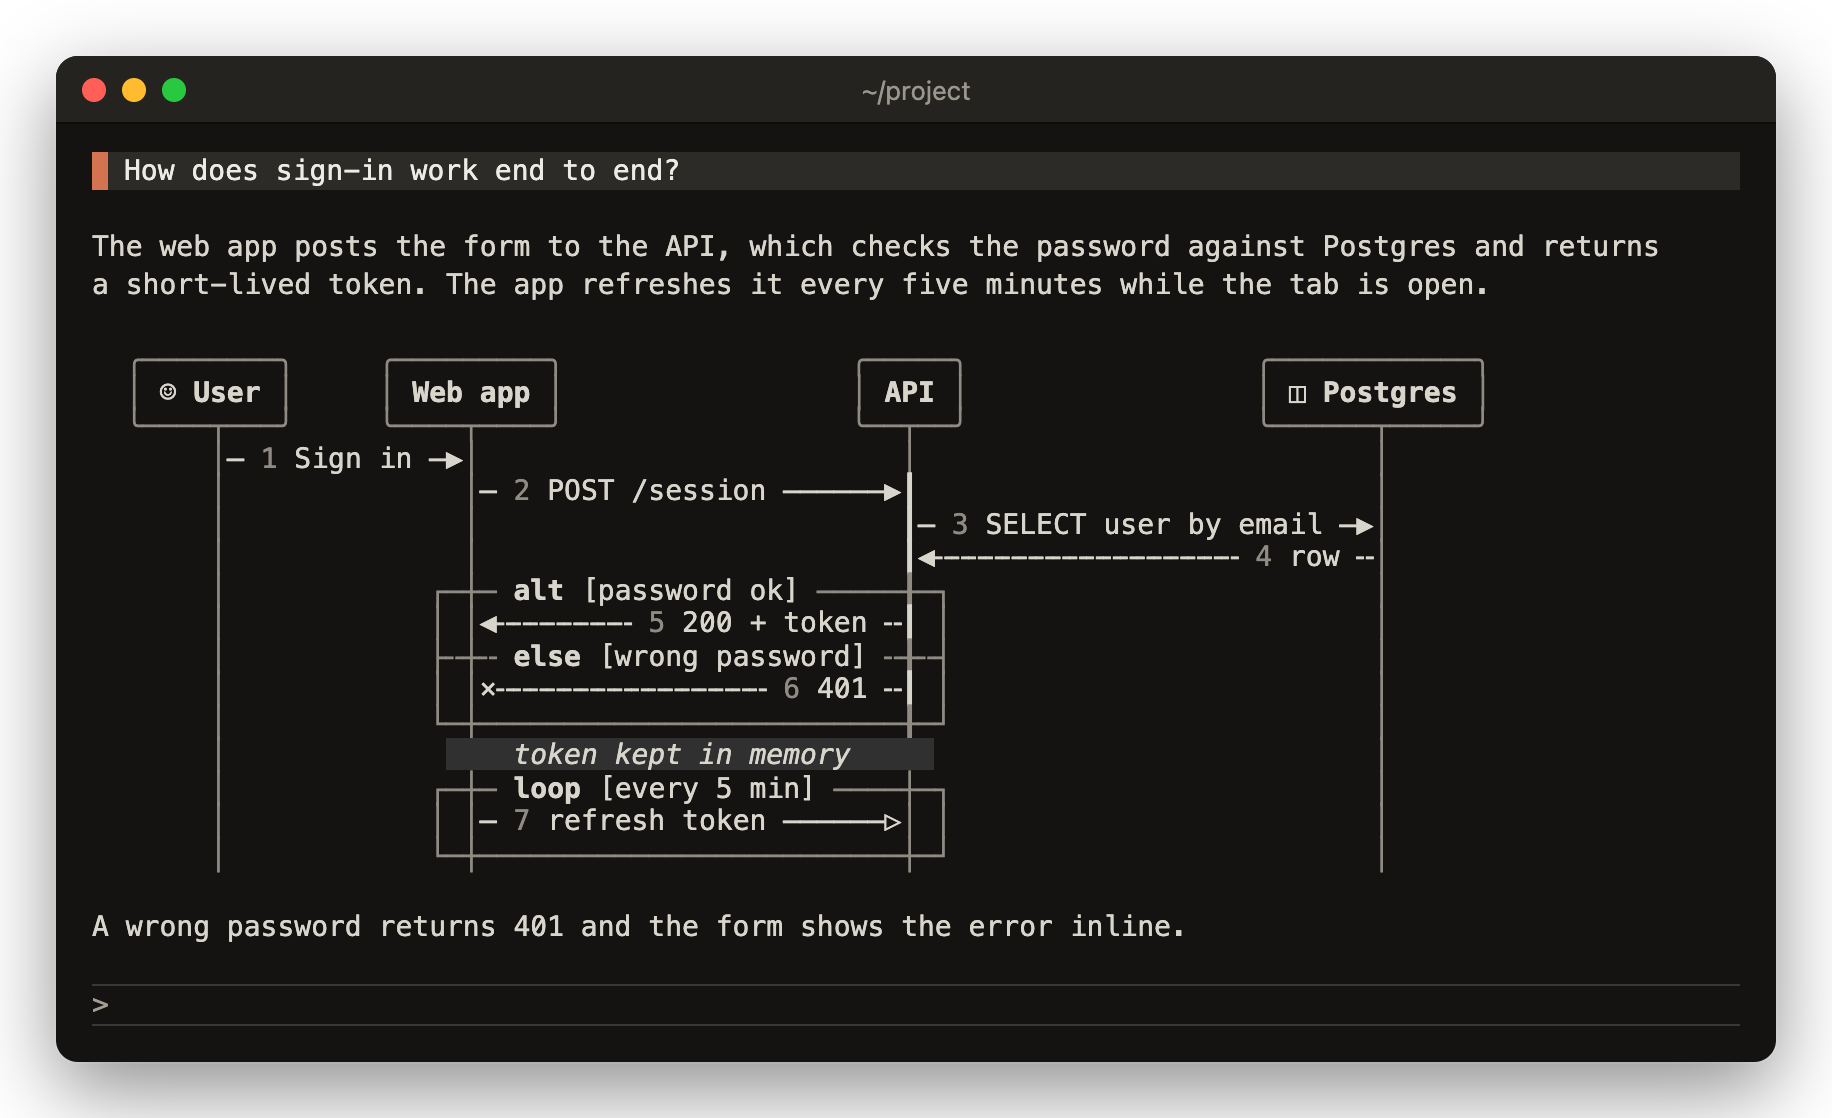
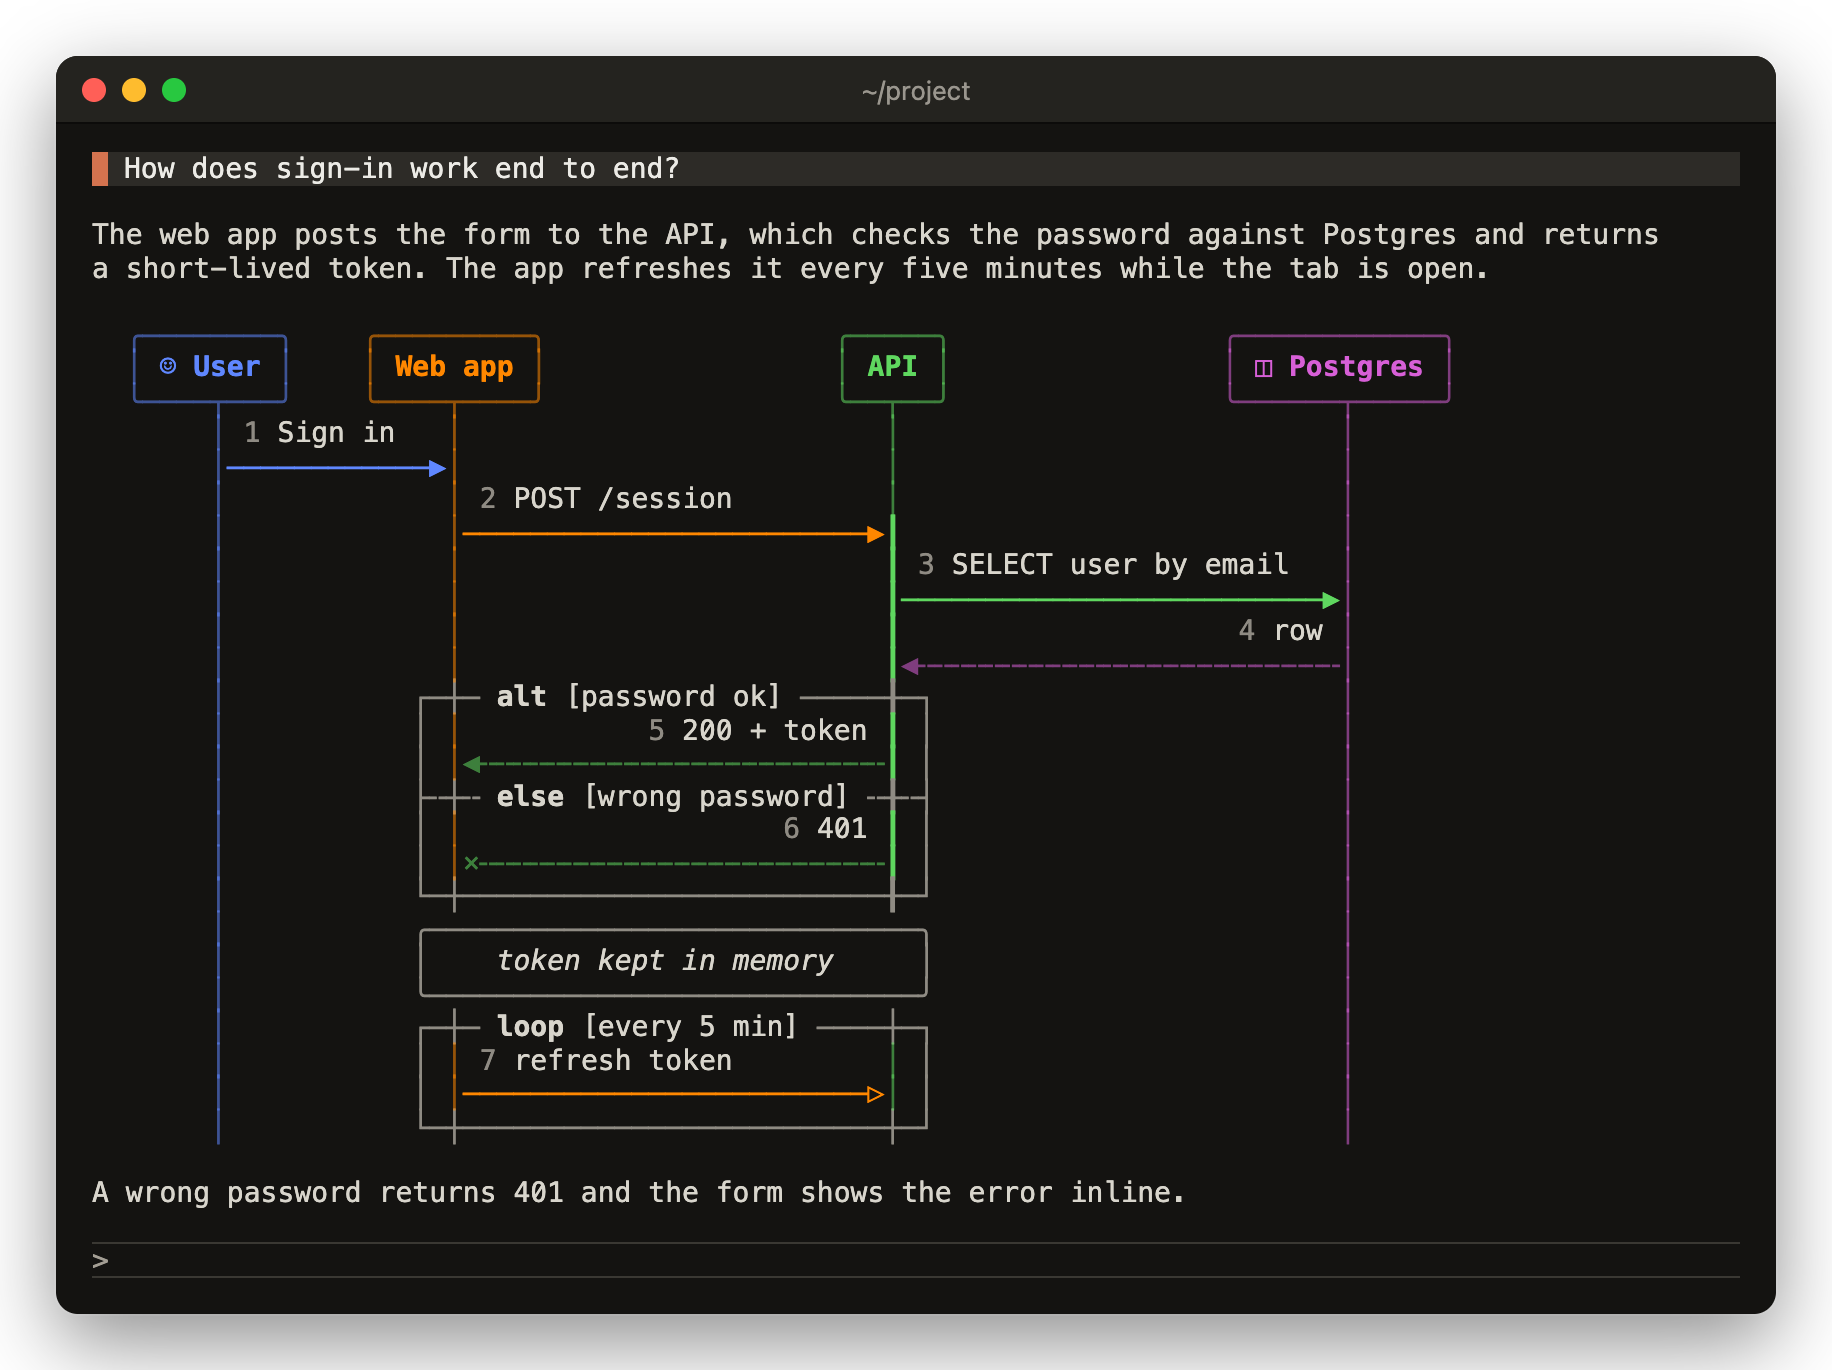
[Doc] Redraw the mermaid screen with sender colours, boxed notes and labels above arrows

Changed region(s): [[0.0311, 0.0304, 0.9645, 0.8819], [0.0311, 0.9123, 0.9645, 0.9732]]

diff --git a/docs/screens/src/mermaid.html b/docs/screens/src/mermaid.html
@@ -3,9 +3,11 @@
 <style>
 .i-frame, .i-block, .i-number { color: #8f8b83; }
 .i-name { font-weight: bold; }
-.i-note { font-style: italic; background: #303030; }
+.i-note { font-style: italic; }
+.dim { opacity: 0.55; }
 .shade { background: #262626; }
-.dg { line-height: 16.5px; min-height: 16.5px; }
+.term, .l, .body { line-height: 16.5px; min-height: 16.5px; }
+.gap { height: 16.5px; }
 </style></head>
 <body>
 <div class="win">
@@ -16,22 +18,31 @@
 <div class="l">The web app posts the form to the API, which checks the password against Postgres and returns</div>
 <div class="l">a short-lived token. The app refreshes it every five minutes while the tab is open.</div>
 <div class="gap"></div>
-<div class="l dg">  <span class="i-frame">╭────────╮     ╭─────────╮                 ╭─────╮                 ╭────────────╮</span></div>
-<div class="l dg">  <span class="i-frame">│ </span><span class="i-name">☺ User </span><span class="i-frame">│     │ </span><span class="i-name">Web app </span><span class="i-frame">│                 │ </span><span class="i-name">API </span><span class="i-frame">│                 │ </span><span class="i-name">◫ Postgres </span><span class="i-frame">│</span></div>
-<div class="l dg">  <span class="i-frame">╰────┬───╯     ╰────┬────╯                 ╰──┬──╯                 ╰──────┬─────╯</span></div>
-<div class="l dg">  <span class="i-text">     </span><span class="i-frame">│</span><span class="i-line">─ </span><span class="i-number">1 </span><span class="i-text">Sign in </span><span class="i-line">─▶</span><span class="i-frame">│                         │                           │</span></div>
-<div class="l dg">  <span class="i-text">     </span><span class="i-frame">│              │</span><span class="i-line">─ </span><span class="i-number">2 </span><span class="i-text">POST /session </span><span class="i-line">──────▶┃                           </span><span class="i-frame">│</span></div>
-<div class="l dg">  <span class="i-text">     </span><span class="i-frame">│              │                         </span><span class="i-line">┃─ </span><span class="i-number">3 </span><span class="i-text">SELECT user by email </span><span class="i-line">─▶</span><span class="i-frame">│</span></div>
-<div class="l dg">  <span class="i-text">     </span><span class="i-frame">│              │                         </span><span class="i-line">┃◀╌╌╌╌╌╌╌╌╌╌╌╌╌╌╌╌╌╌ </span><span class="i-number">4 </span><span class="i-text">row </span><span class="i-line">╌</span><span class="i-frame">│</span></div>
-<div class="l dg">  <span class="i-text">     </span><span class="i-frame">│            </span><span class="i-block">┌─┼─ </span><span class="i-name">alt </span><span class="i-text">[password ok] </span><span class="i-block">─────╂─┐                         </span><span class="i-frame">│</span></div>
-<div class="l dg">  <span class="i-text">     </span><span class="i-frame">│            </span><span class="i-block">│ </span><span class="i-frame">│</span><span class="i-line">◀╌╌╌╌╌╌╌╌ </span><span class="i-number">5 </span><span class="i-text">200 + token </span><span class="i-line">╌┃ </span><span class="i-block">│                         </span><span class="i-frame">│</span></div>
-<div class="l dg">  <span class="i-text">     </span><span class="i-frame">│            </span><span class="i-block">├╌┼╌ </span><span class="i-name">else </span><span class="i-text">[wrong password] </span><span class="i-block">╌╂╌┤                         </span><span class="i-frame">│</span></div>
-<div class="l dg">  <span class="i-text">     </span><span class="i-frame">│            </span><span class="i-block">│ </span><span class="i-frame">│</span><span class="i-line">×╌╌╌╌╌╌╌╌╌╌╌╌╌╌╌╌ </span><span class="i-number">6 </span><span class="i-text">401 </span><span class="i-line">╌┃ </span><span class="i-block">│                         </span><span class="i-frame">│</span></div>
-<div class="l dg">  <span class="i-text">     </span><span class="i-frame">│            </span><span class="i-block">└─┼─────────────────────────╂─┘                         </span><span class="i-frame">│</span></div>
-<div class="l dg">  <span class="i-text">     </span><span class="i-frame">│             </span><span class="i-note">    token kept in memory     </span><span class="i-text">                          </span><span class="i-frame">│</span></div>
-<div class="l dg">  <span class="i-text">     </span><span class="i-frame">│            </span><span class="i-block">┌─┼─ </span><span class="i-name">loop </span><span class="i-text">[every 5 min] </span><span class="i-block">────┼─┐                         </span><span class="i-frame">│</span></div>
-<div class="l dg">  <span class="i-text">     </span><span class="i-frame">│            </span><span class="i-block">│ </span><span class="i-frame">│</span><span class="i-line">─ </span><span class="i-number">7 </span><span class="i-text">refresh token </span><span class="i-line">──────▷</span><span class="i-frame">│ </span><span class="i-block">│                         </span><span class="i-frame">│</span></div>
-<div class="l dg">  <span class="i-text">     </span><span class="i-frame">│            </span><span class="i-block">└─┼─────────────────────────┼─┘                         </span><span class="i-frame">│</span></div>
+<div class="l dg">  <span class="i-frame dim" style="color:#5f87ff">╭────────╮    </span><span class="i-frame dim" style="color:#ff8700">╭─────────╮                 </span><span class="i-frame dim" style="color:#5fd75f">╭─────╮                </span><span class="i-frame dim" style="color:#d75fd7">╭────────────╮</span></div>
+<div class="l dg">  <span class="i-frame dim" style="color:#5f87ff">│ </span><span class="i-name" style="color:#5f87ff">☺ User </span><span class="i-frame dim" style="color:#5f87ff">│    </span><span class="i-frame dim" style="color:#ff8700">│ </span><span class="i-name" style="color:#ff8700">Web app </span><span class="i-frame dim" style="color:#ff8700">│                 </span><span class="i-frame dim" style="color:#5fd75f">│ </span><span class="i-name" style="color:#5fd75f">API </span><span class="i-frame dim" style="color:#5fd75f">│                </span><span class="i-frame dim" style="color:#d75fd7">│ </span><span class="i-name" style="color:#d75fd7">◫ Postgres </span><span class="i-frame dim" style="color:#d75fd7">│</span></div>
+<div class="l dg">  <span class="i-frame dim" style="color:#5f87ff">╰────┬───╯    </span><span class="i-frame dim" style="color:#ff8700">╰────┬────╯                 </span><span class="i-frame dim" style="color:#5fd75f">╰──┬──╯                </span><span class="i-frame dim" style="color:#d75fd7">╰──────┬─────╯</span></div>
+<div class="l dg">  <span class="i-text">     </span><span class="i-frame dim" style="color:#5f87ff">│ </span><span class="i-number">1 </span><span class="i-text">Sign in   </span><span class="i-frame dim" style="color:#ff8700">│                         </span><span class="i-frame dim" style="color:#5fd75f">│                          </span><span class="i-frame dim" style="color:#d75fd7">│</span></div>
+<div class="l dg">  <span class="i-text">     </span><span class="i-frame dim" style="color:#5f87ff">│</span><span class="i-line" style="color:#5f87ff">────────────▶</span><span class="i-frame dim" style="color:#ff8700">│                         </span><span class="i-frame dim" style="color:#5fd75f">│                          </span><span class="i-frame dim" style="color:#d75fd7">│</span></div>
+<div class="l dg">  <span class="i-text">     </span><span class="i-frame dim" style="color:#5f87ff">│             </span><span class="i-frame dim" style="color:#ff8700">│ </span><span class="i-number">2 </span><span class="i-text">POST /session         </span><span class="i-frame dim" style="color:#5fd75f">│                          </span><span class="i-frame dim" style="color:#d75fd7">│</span></div>
+<div class="l dg">  <span class="i-text">     </span><span class="i-frame dim" style="color:#5f87ff">│             </span><span class="i-frame dim" style="color:#ff8700">│</span><span class="i-line" style="color:#ff8700">────────────────────────▶</span><span class="i-line" style="color:#5fd75f">┃                          </span><span class="i-frame dim" style="color:#d75fd7">│</span></div>
+<div class="l dg">  <span class="i-text">     </span><span class="i-frame dim" style="color:#5f87ff">│             </span><span class="i-frame dim" style="color:#ff8700">│                         </span><span class="i-line" style="color:#5fd75f">┃ </span><span class="i-number">3 </span><span class="i-text">SELECT user by email   </span><span class="i-frame dim" style="color:#d75fd7">│</span></div>
+<div class="l dg">  <span class="i-text">     </span><span class="i-frame dim" style="color:#5f87ff">│             </span><span class="i-frame dim" style="color:#ff8700">│                         </span><span class="i-line" style="color:#5fd75f">┃─────────────────────────▶</span><span class="i-frame dim" style="color:#d75fd7">│</span></div>
+<div class="l dg">  <span class="i-text">     </span><span class="i-frame dim" style="color:#5f87ff">│             </span><span class="i-frame dim" style="color:#ff8700">│                         </span><span class="i-line" style="color:#5fd75f">┃                    </span><span class="i-number">4 </span><span class="i-text">row </span><span class="i-frame dim" style="color:#d75fd7">│</span></div>
+<div class="l dg">  <span class="i-text">     </span><span class="i-frame dim" style="color:#5f87ff">│             </span><span class="i-frame dim" style="color:#ff8700">│                         </span><span class="i-line" style="color:#5fd75f">┃</span><span class="i-line dim" style="color:#d75fd7">◀╌╌╌╌╌╌╌╌╌╌╌╌╌╌╌╌╌╌╌╌╌╌╌╌╌</span><span class="i-frame dim" style="color:#d75fd7">│</span></div>
+<div class="l dg">  <span class="i-text">     </span><span class="i-frame dim" style="color:#5f87ff">│           </span><span class="i-block">┌─┼─ </span><span class="i-name">alt </span><span class="i-text">[password ok] </span><span class="i-block">─────╂─┐                        </span><span class="i-frame dim" style="color:#d75fd7">│</span></div>
+<div class="l dg">  <span class="i-text">     </span><span class="i-frame dim" style="color:#5f87ff">│           </span><span class="i-block">│ </span><span class="i-frame dim" style="color:#ff8700">│           </span><span class="i-number">5 </span><span class="i-text">200 + token </span><span class="i-line" style="color:#5fd75f">┃ </span><span class="i-block">│                        </span><span class="i-frame dim" style="color:#d75fd7">│</span></div>
+<div class="l dg">  <span class="i-text">     </span><span class="i-frame dim" style="color:#5f87ff">│           </span><span class="i-block">│ </span><span class="i-frame dim" style="color:#ff8700">│</span><span class="i-line dim" style="color:#5fd75f">◀╌╌╌╌╌╌╌╌╌╌╌╌╌╌╌╌╌╌╌╌╌╌╌╌</span><span class="i-line" style="color:#5fd75f">┃ </span><span class="i-block">│                        </span><span class="i-frame dim" style="color:#d75fd7">│</span></div>
+<div class="l dg">  <span class="i-text">     </span><span class="i-frame dim" style="color:#5f87ff">│           </span><span class="i-block">├╌┼╌ </span><span class="i-name">else </span><span class="i-text">[wrong password] </span><span class="i-block">╌╂╌┤                        </span><span class="i-frame dim" style="color:#d75fd7">│</span></div>
+<div class="l dg">  <span class="i-text">     </span><span class="i-frame dim" style="color:#5f87ff">│           </span><span class="i-block">│ </span><span class="i-frame dim" style="color:#ff8700">│                   </span><span class="i-number">6 </span><span class="i-text">401 </span><span class="i-line" style="color:#5fd75f">┃ </span><span class="i-block">│                        </span><span class="i-frame dim" style="color:#d75fd7">│</span></div>
+<div class="l dg">  <span class="i-text">     </span><span class="i-frame dim" style="color:#5f87ff">│           </span><span class="i-block">│ </span><span class="i-frame dim" style="color:#ff8700">│</span><span class="i-line dim" style="color:#5fd75f">×╌╌╌╌╌╌╌╌╌╌╌╌╌╌╌╌╌╌╌╌╌╌╌╌</span><span class="i-line" style="color:#5fd75f">┃ </span><span class="i-block">│                        </span><span class="i-frame dim" style="color:#d75fd7">│</span></div>
+<div class="l dg">  <span class="i-text">     </span><span class="i-frame dim" style="color:#5f87ff">│           </span><span class="i-block">└─┼─────────────────────────╂─┘                        </span><span class="i-frame dim" style="color:#d75fd7">│</span></div>
+<div class="l dg">  <span class="i-text">     </span><span class="i-frame dim" style="color:#5f87ff">│           </span><span class="i-frame">╭─────────────────────────────╮                        </span><span class="i-frame dim" style="color:#d75fd7">│</span></div>
+<div class="l dg">  <span class="i-text">     </span><span class="i-frame dim" style="color:#5f87ff">│           </span><span class="i-frame">│    </span><span class="i-note">token kept in memory</span><span class="i-text">     </span><span class="i-frame">│                        </span><span class="i-frame dim" style="color:#d75fd7">│</span></div>
+<div class="l dg">  <span class="i-text">     </span><span class="i-frame dim" style="color:#5f87ff">│           </span><span class="i-frame">╰─────────────────────────────╯                        </span><span class="i-frame dim" style="color:#d75fd7">│</span></div>
+<div class="l dg">  <span class="i-text">     </span><span class="i-frame dim" style="color:#5f87ff">│           </span><span class="i-block">┌─┼─ </span><span class="i-name">loop </span><span class="i-text">[every 5 min] </span><span class="i-block">────┼─┐                        </span><span class="i-frame dim" style="color:#d75fd7">│</span></div>
+<div class="l dg">  <span class="i-text">     </span><span class="i-frame dim" style="color:#5f87ff">│           </span><span class="i-block">│ </span><span class="i-frame dim" style="color:#ff8700">│ </span><span class="i-number">7 </span><span class="i-text">refresh token         </span><span class="i-frame dim" style="color:#5fd75f">│ </span><span class="i-block">│                        </span><span class="i-frame dim" style="color:#d75fd7">│</span></div>
+<div class="l dg">  <span class="i-text">     </span><span class="i-frame dim" style="color:#5f87ff">│           </span><span class="i-block">│ </span><span class="i-frame dim" style="color:#ff8700">│</span><span class="i-line" style="color:#ff8700">────────────────────────▷</span><span class="i-frame dim" style="color:#5fd75f">│ </span><span class="i-block">│                        </span><span class="i-frame dim" style="color:#d75fd7">│</span></div>
+<div class="l dg">  <span class="i-text">     </span><span class="i-frame dim" style="color:#5f87ff">│           </span><span class="i-block">└─┼─────────────────────────┼─┘                        </span><span class="i-frame dim" style="color:#d75fd7">│</span></div>
 <div class="gap"></div>
 <div class="l">A wrong password returns 401 and the form shows the error inline.</div>
 <div class="gap"></div>
